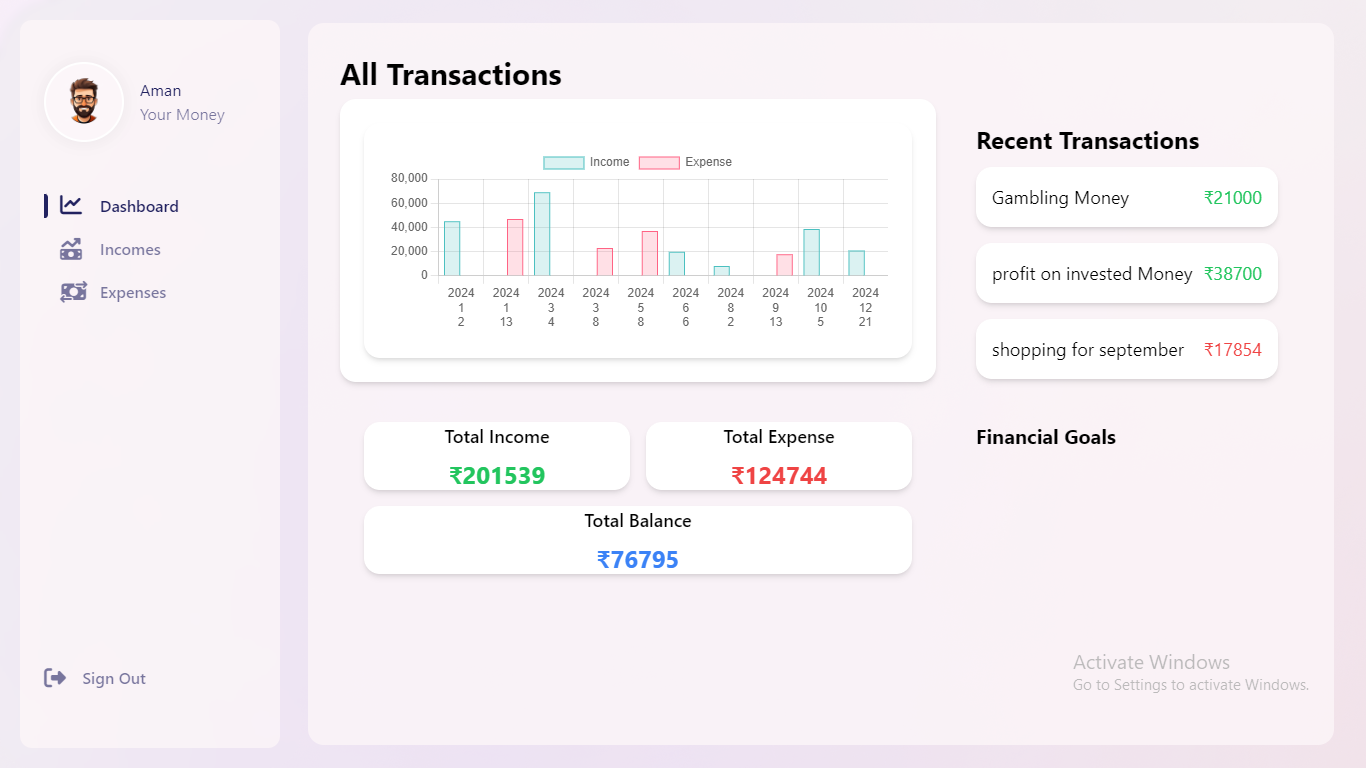
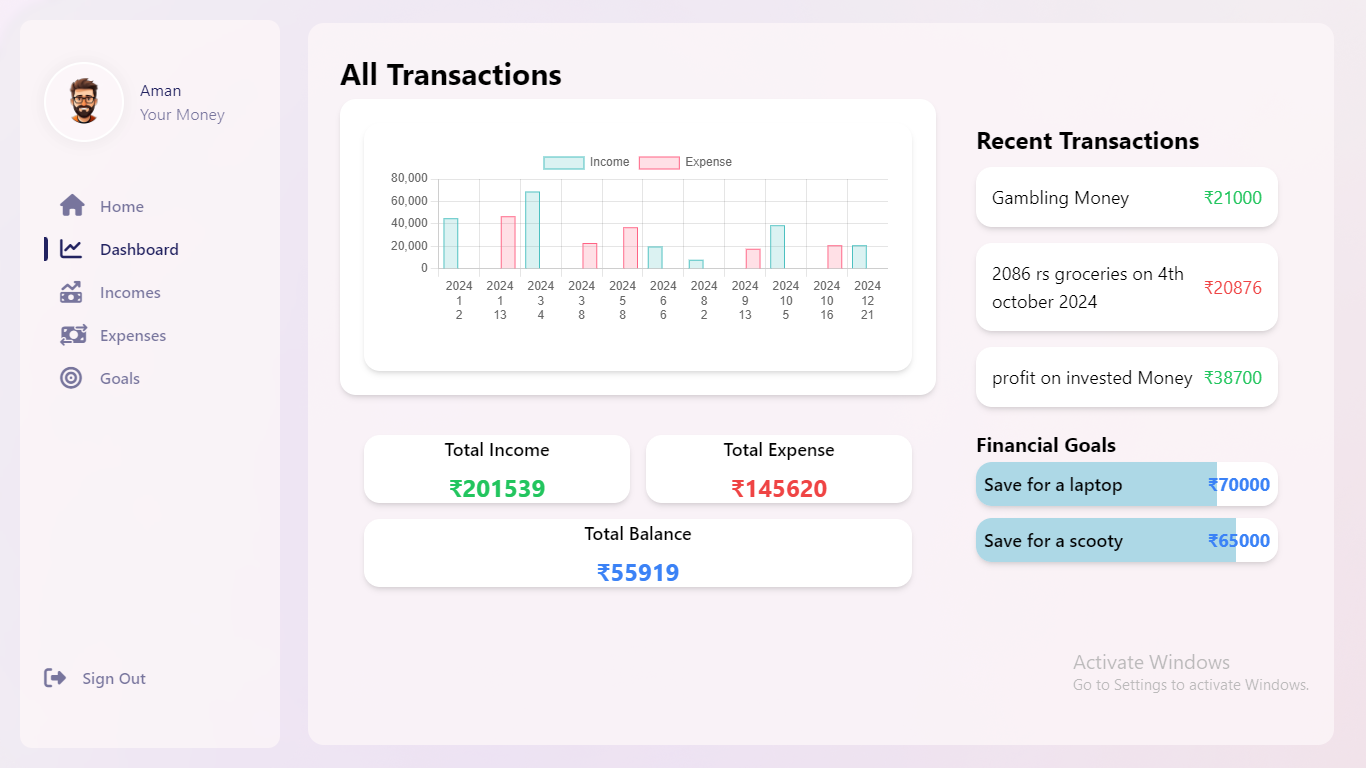
Completed the Trabsaction Page.

diff --git a/Frontend/src/components/Transaction/TransactionPage.jsx b/Frontend/src/components/Transaction/TransactionPage.jsx
@@ -2,18 +2,15 @@ import React, { useEffect, useState } from 'react';
 import { Bar } from 'react-chartjs-2';
 import 'chart.js/auto';
 import bg from '../../img/bg.png';
-
 import Navigation from '../Navigation/Navigation';
 import TransactionService from '../../services/Transaction-service';
 import { getCurrentUser } from '../../jwtAuth/auth';
-import { getFinancialGoalsByUser } from '../../services/FinancialGoals-service'; 
+import { getFinancialGoalsByUser } from '../../services/FinancialGoals-service';
 
 const TransactionPage = () => {
-
     const style = {
         backgroundImage: `url(${bg})`,
     };
-
 
     const [graphData, setGraphData] = useState([]);
     const [transactions, setTransactions] = useState([]);
@@ -22,7 +19,6 @@ const TransactionPage = () => {
     const [totalBalance, setTotalBalance] = useState(0);
     const [user, setUser] = useState(undefined);
     const [recentGoals, setRecentGoals] = useState([]); // State for recent goals
-
 
     useEffect(() => {
         setUser(getCurrentUser());
@@ -65,7 +61,6 @@ const TransactionPage = () => {
         try {
             const userId = user.id;
             const response = await TransactionService.getRecentHistory(userId);
-            console.log('Full Transaction Data:', response.data.recentTransactions);
             setTransactions(response.data.recentTransactions.slice(0, 3) || []);
         } catch (error) {
             console.error('Error fetching recent transactions:', error);
@@ -73,8 +68,7 @@ const TransactionPage = () => {
         }
     };
 
-     // Fetch the recent financial goals
-     const fetchRecentGoals = async () => {
+    const fetchRecentGoals = async () => {
         try {
             const userId = user.id;
             const response = await getFinancialGoalsByUser(userId, 0, 2); // Fetch only the 2 most recent goals
@@ -84,8 +78,6 @@ const TransactionPage = () => {
             setRecentGoals([]);
         }
     };
-    
-    
 
     const generateGraph = () => {
         if (!graphData || graphData.length === 0) {
@@ -93,7 +85,7 @@ const TransactionPage = () => {
         }
 
         return (
-            <div className="w-full bg-white p-6 rounded-2xl shadow-md h-full"> {/* Set a fixed height for the graph */}
+            <div className="w-full bg-white p-6 rounded-2xl shadow-md h-full">
                 <Bar
                     data={{
                         labels: graphData.map(item => item.date),
@@ -128,6 +120,11 @@ const TransactionPage = () => {
         );
     };
 
+    // Calculate progress based on total balance
+    const calculateProgress = (targetAmount) => {
+        return Math.min((totalBalance / targetAmount) * 100, 100); // Cap at 100%
+    };
+
     return (
         <div style={style} className="flex">
             <Navigation />
@@ -141,7 +138,7 @@ const TransactionPage = () => {
                             {generateGraph()}
                         </div>
                         {/* Totals Section */}
-                        <div className=" p-6 rounded-2xl flex flex-col space-y-4 h-[40%]">
+                        <div className="p-6 rounded-2xl flex flex-col space-y-4 h-[40%]">
                             <div className="flex space-x-4 h-1/2">
                                 <div className="w-1/2 flex flex-col shadow-md justify-center items-center bg-white rounded-2xl">
                                     <h3 className="text-lg font-semibold mb-2 text-center">Total Income</h3>
@@ -161,21 +158,19 @@ const TransactionPage = () => {
                     {/* Right Side: Recent Transactions and Financial Goals */}
                     <div className="flex flex-col w-[37%]">
                         {/* Recent Transactions */}
-                        <div className=" p-6 rounded-2xl flex flex-col space-y-1 h-[60%]">
+                        <div className="p-6 rounded-2xl flex flex-col space-y-1 h-[60%]">
                             <h3 className="text-2xl font-bold mb-2">Recent Transactions</h3>
                             <ul className="space-y-4">
                                 {transactions.length > 0 ? (
                                     transactions.map((transaction, index) => (
                                         <li
                                             key={`${transaction.description}-${transaction.date}-${index}`}
-                                           className="bg-white rounded-2xl shadow-md p-4 flex items-center justify-between"
+                                            className="bg-white rounded-2xl shadow-md p-4 flex items-center justify-between"
                                         >
                                             <div className="text-lg">
                                                 <p>{transaction.description}</p>
-                                                {/* <span className="text-sm text-gray-500">{transaction.date}</span> */}
                                             </div>
                                             <p className={`text-lg ${transaction.type === 'income' ? 'text-green-500' : 'text-red-500'}`}>
-
                                                 ₹{transaction.amount}
                                             </p>
                                         </li>
@@ -184,23 +179,26 @@ const TransactionPage = () => {
                                     <p>No recent transactions available.</p>
                                 )}
                             </ul>
-
                         </div>
-                         {/* Financial Goals Section */}
-                         <div className="p-6 rounded-2xl h-[40%]">
-                            <h3 className="text-xl font-bold mb-2">Financial Goals</h3>
-                            <ul className="space-y-1">
+                        {/* Financial Goals Section */}
+                        <div className="p-6 rounded-2xl h-[40%]">
+                            <h3 className="text-xl font-bold mb-1">Financial Goals</h3>
+                            <ul className="space-y-3">
                                 {recentGoals.length > 0 ? (
                                     recentGoals.map((goal, index) => (
                                         <li
                                             key={`${goal.goalTitle}-${goal.targetDate}-${index}`}
-                                            className="bg-white rounded-2xl shadow-md p-4 flex items-center justify-between"
+                                            className="bg-white rounded-2xl shadow-md p-2 flex items-center justify-between relative"
+                                            style={{
+                                                
+                                                background: `linear-gradient(90deg, rgba(173, 216, 230, 1) ${calculateProgress(goal.targetAmount)}%, white 0%)`,
+                                            }}
                                         >
                                             <div className="text-lg">
                                                 <p>{goal.goalTitle}</p>
-                                                <span className="text-sm text-gray-500">{goal.name}</span>
+                                                <span className="text-lg font-semibold text-black">{goal.name}</span>
                                             </div>
-                                            <p className="text-lg text-blue-500">₹{goal.targetAmount}</p>
+                                            <p className="text-lg font-bold text-blue-500">₹{goal.targetAmount}</p>
                                         </li>
                                     ))
                                 ) : (
